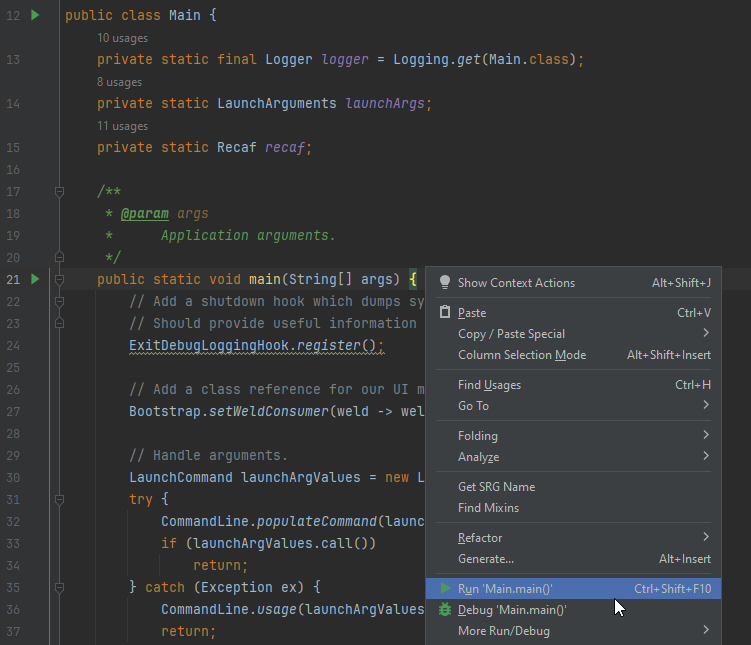
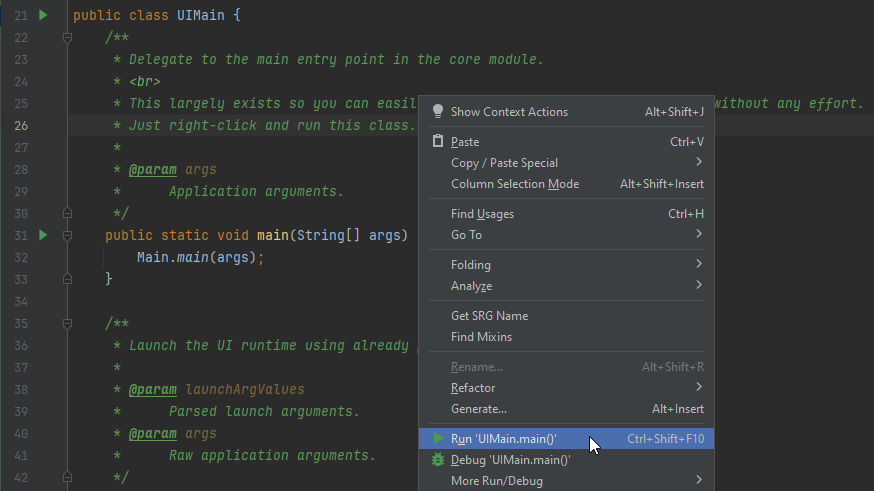
Update launch instructions given new --headless/--idle behavior

diff --git a/src/dev/arch/running.md b/src/dev/arch/running.md
@@ -12,7 +12,12 @@ Use `gradlew run`. This will build Recaf if you haven't already done so, then la
 
 <figure><img src="../../assets/idea-run-config.png" alt=""><figcaption><p>Context menu showing the 'run' option in the Recaf main class.</p></figcaption></figure>
 
-Create an application run configuration with `software.coley.recaf.Main` as the main class. You can do this simply by opening that class in IntelliJ, right clicking to open a context menu anywhere in the code, and selecting the _"Run"_ option with the green :arrow_forward: icon.
+Create an application run configuration with either:
+
+-  `software.coley.recaf.UIMain` _(In `recaf-ui` module)_ 
+-  `software.coley.recaf.Main` _(In `recaf-core` module, you will need to change the config module from `recaf-core` to `recaf-ui`)_
+
+You can do this simply by opening that class in IntelliJ, right clicking to open a context menu anywhere in the code, and selecting the _"Run"_ option with the green :arrow_forward: icon.
 
 ## Using Recaf as a command-line application
 
@@ -30,4 +35,7 @@ When using `--script` the target file is a [Recaf script file](../plugins-and-sc
 
 - If you use `--input` with `--script` then the script will be run _after_ the workspace is loaded from the given input.
 
-When using `--headless` it is assumed you are also going to use `--script` to automate some task without needing to launch any user interface.
+When using `--headless` it is assumed you are either going to:
+
+- Use `--script` to automate some task without needing to launch any user interface.
+- Use `--idle` to keep Recaf running idle in the background, generally only useful if you have a plugin that allows remote interfacing like a MCP server.
